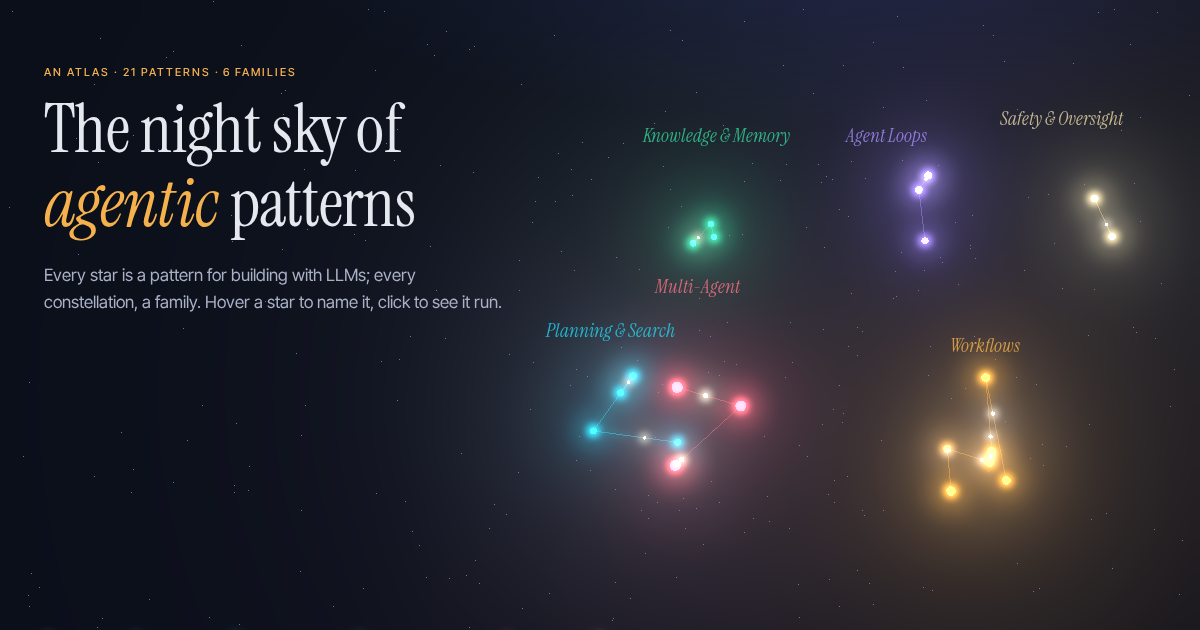
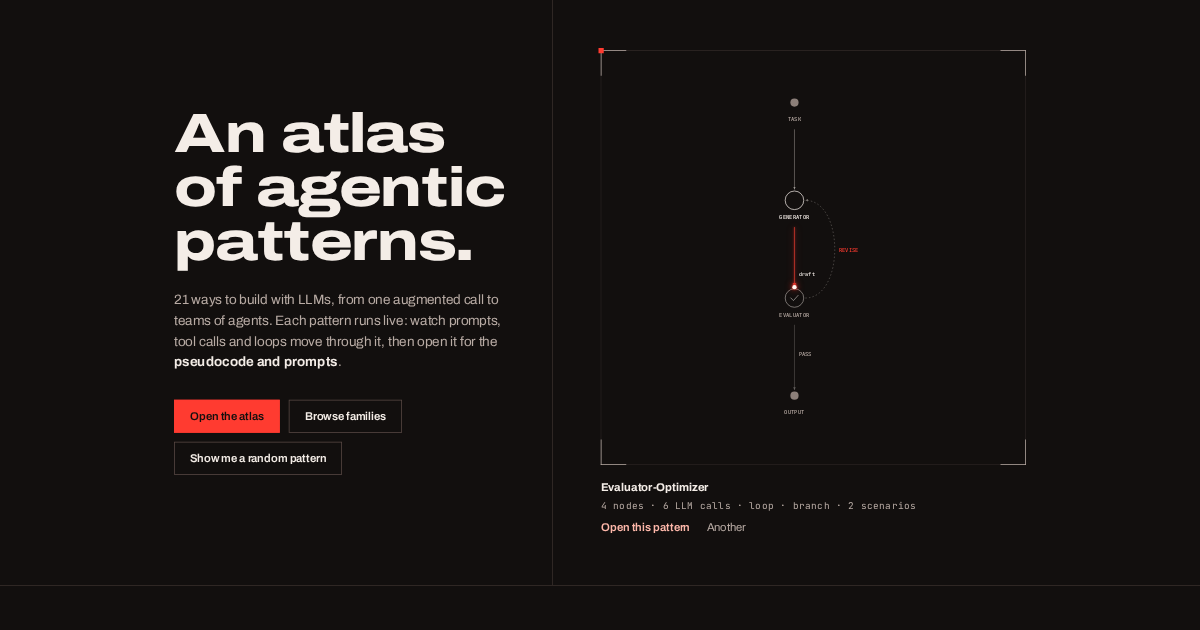
chore: drop constellation leftovers; regenerate og.png from the new hero
Removes the unused family 'constellation' field (schema, YAML, tests), the
stale .constellation assertion, and the WebGL flags/wait in scripts/og.mjs.
og.png is rendered from the framed hero at 1600x840 CSS px, 0.75x.

diff --git a/tests/unit/schema.test.ts b/tests/unit/schema.test.ts
@@ -41,7 +41,7 @@ describe('diagramIssues', () => {
   it('flags group child that does not exist', () => { const d = base(); d.groups = [{ id: 'g', label: 'G', children: ['zz'] }]; expect(diagramIssues(d, code).join()).toMatch(/group "g" .*unknown node "zz"/); });
 });
 
-const fam = (slug: string, order: string[]): Family => familySchema.parse({ slug, name: slug, rank: 1, accent: '#F5B14C', description: 'A family of things.', order, constellation: { x: 0, y: 0, z: 0 } });
+const fam = (slug: string, order: string[]): Family => familySchema.parse({ slug, name: slug, rank: 1, accent: '#F5B14C', description: 'A family of things.', order });
 const pat = (slug: string, family: string, related: Partial<Pattern['related']> = {}): Pattern => ({
   slug, name: slug, family, aliases: [], summary: 'A summary of the pattern.', badges: { autonomy: 'low', cost: 'low', latency: 'low' },
   sources: [{ title: 't', url: 'https://example.com' }], related: { composesWith: [], confusedWith: [], ...related },
@@ -67,5 +67,5 @@ describe('patternSchema', () => {
     expect(r.success).toBe(false);
     if (!r.success) expect(r.error.issues.map(i => i.message).join('\n')).toMatch(/\[a\].*unknown node "nope"/);
   });
-  it('rejects bad accent', () => expect(familySchema.safeParse({ slug: 'f', name: 'F', rank: 1, accent: 'orange', description: 'x', order: [], constellation: { x: 0, y: 0, z: 0 } }).success).toBe(false));
+  it('rejects bad accent', () => expect(familySchema.safeParse({ slug: 'f', name: 'F', rank: 1, accent: 'orange', description: 'x', order: [] }).success).toBe(false));
 });

diff --git a/tests/e2e/families.spec.ts b/tests/e2e/families.spec.ts
@@ -22,7 +22,6 @@ test('family page shows a compact diagram per pattern', async ({ page }) => {
   await expect(page.locator('flow-player[compact]')).toHaveCount(6);
   await expect(page.locator('a.pattern-card')).toHaveCount(6);
   await expect(page.locator('.other a')).toHaveCount(5);
-  await expect(page.locator('.constellation')).toHaveCount(0);
 });
 
 test('card link is named by its h3 and navigates', async ({ page }) => {

diff --git a/src/lib/schema.ts b/src/lib/schema.ts
@@ -130,7 +130,6 @@ export const familySchema = z.object({
   accent: z.string().regex(/^#[0-9A-Fa-f]{6}$/),
   description: z.string().min(1),
   order: z.array(id),
-  constellation: z.object({ x: z.number(), y: z.number(), z: z.number() }),
 });
 
 export type Pattern = z.infer<typeof patternSchema>;
